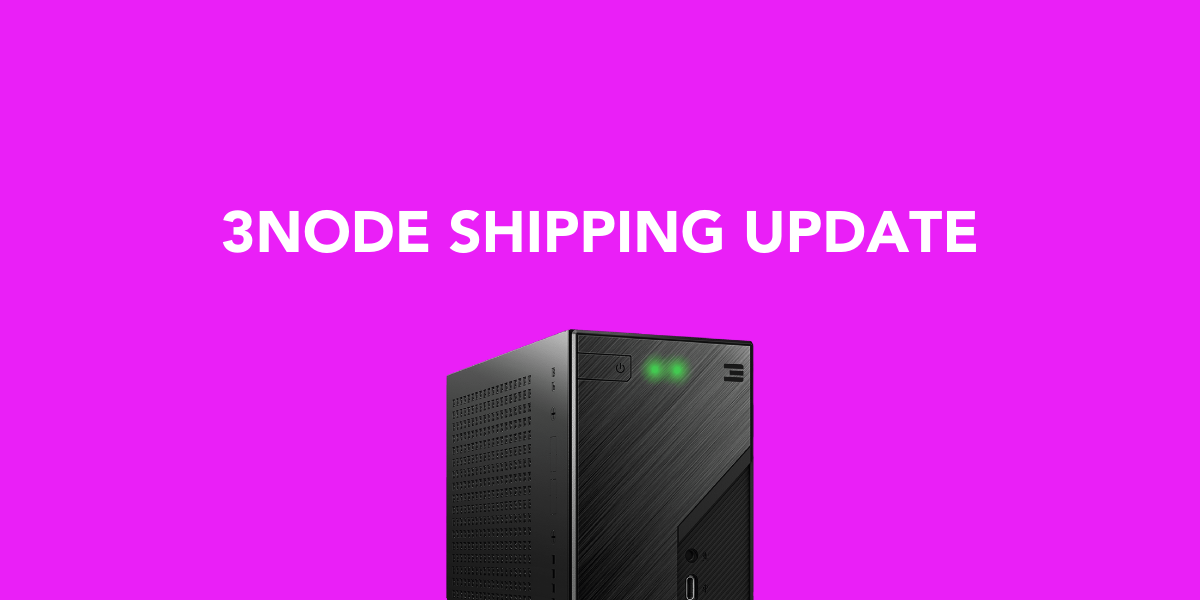
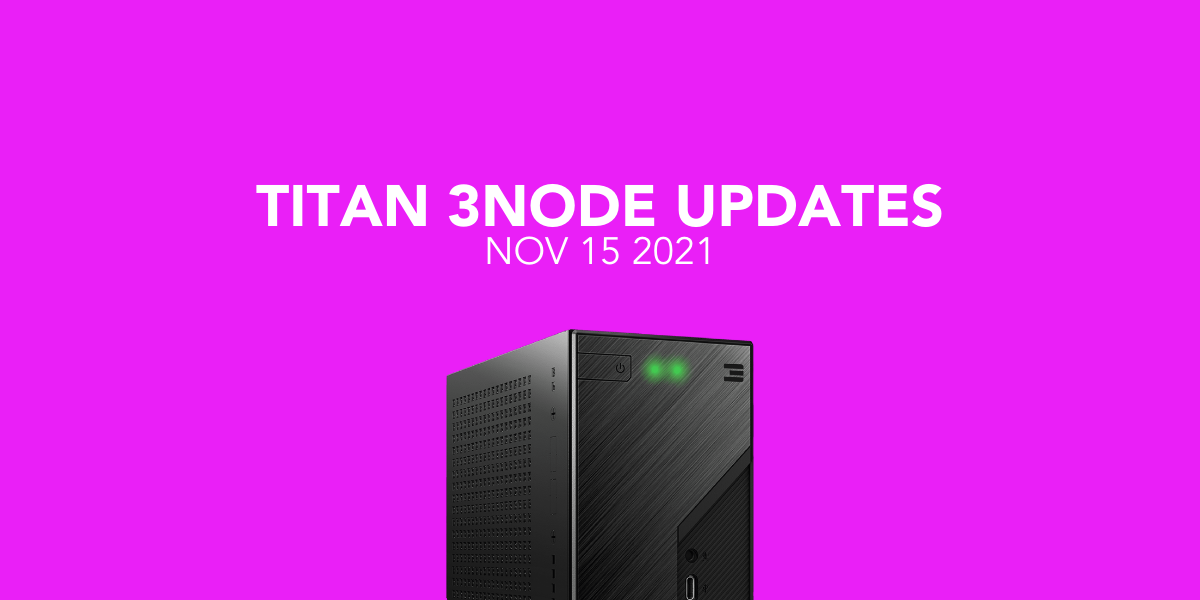
Recent news

Changed region(s): [[0.185, 0.3, 0.8325, 0.45]]

diff --git a/content/news/tf_grid3_reminder/tf_grid3_reminder.md b/content/news/tf_grid3_reminder/tf_grid3_reminder.md
@@ -1,0 +1,31 @@
+---
+id: tf_grid3_reminder
+title: All About ThreeFold Grid 3
+tags: [threefold_grid,technology,update,peer_to_peer,threefold_cloud]
+category: [foundation]
+image: ./tf_grid3_reminder.png
+image_caption: All About ThreeFold Grid 3
+excerpt: As the team is working hard on bringing ThreeFold Grid 3 to mainnet, we wanted to remind you of what's new and what's coming!
+authors: [sam_taggart]
+created: 2021-12-13
+---
+
+✍ As the team is working hard on **bringing ThreeFold Grid 3 to mainnet**, we thought it would be a good time to remind of [What’s New in TF Grid 3.0](https://forum.threefold.io/t/what-is-new-in-tfgrid-3-0/1133)!
+
+<br/>
+
+**More About TF Grid 3:**
+
+<br/>
+
+- 🗞 [Release 3.0.1](https://forum.threefold.io/t/whats-new-in-tf-grid-3-0-1-and-the-path-to-mainnet/1488)
+- 🌀 [The TF Admin Portal](https://forum.threefold.io/t/introducing-the-tf-chain-admin-portal-for-farmers-and-grid-users/1526)
+- 🔍 [Grid 3 Explorer](https://forum.threefold.io/t/the-threefold-grid-3-x-explorer-ui/1536)
+
+<br/>
+
+Thanks to the farmers acrossed 18 countries 🌎 who have connected capacity to TF Grid 3 Testnet and to the testers who have deployed more than 1,800 contracts to date.
+
+<br/>
+
+*For those who are interested in testing, please join [our testing community](https://t.me/threefoldtesting).*

diff --git a/content/news/tf_admin_portal/tf_admin_portal.md b/content/news/tf_admin_portal/tf_admin_portal.md
@@ -1,0 +1,29 @@
+---
+id: tf_admin_portal
+title: Introducing the ThreeFold Admin Portal
+tags: [community,farming,threefold_grid,threefold_cloud,update]
+category: [foundation,cloud]
+image: ./tf_admin_portal.png
+image_caption: The TF Admin Portal
+excerpt: A new and improved user experience for farmers and grid users.
+authors: [sam_taggart]
+created: 2021-11-26
+---
+
+🚨 **Exciting news for farmers & grid users!**
+
+<br/>
+
+One of the requests we’ve had from farmers and grid users was to have a simpler user experience.
+
+<br/>
+
+**The admin portal (aka TF Chain UI) is a response to that feedback, a graphical user interface, and the starting point for anyone to begin working with the TF Grid!**
+
+<br/>
+
+https://forum.threefold.io/t/introducing-the-tf-chain-admin-portal-for-farmers-and-grid-users/1526
+
+<br>
+
+We’ve tested this portal with people of all technical levels, and the response has been quite good! We believe the portal is a huge step forward for anyone using or managing the ThreeFold Grid.

diff --git a/content/news/grid_301/grid_301.md b/content/news/grid_301/grid_301.md
@@ -1,0 +1,25 @@
+---
+id: grid_301
+title: What's New in Grid 3.0.1!
+tags: [threefold_grid,threefold_cloud,technology,update,peer_to_peer,blockchain]
+category: [foundation,cloud]
+image: ./grid_301.png
+image_caption: What's new in Grid 3.0.1
+excerpt: Today we are sharing what’s new in TF Grid 3.0.1, now live on Testnet and Devenet – and the path to Mainnet!
+authors: [sam_taggart]
+created: 2021-11-18
+---
+
+We have been, for some months, in testing mode on our ThreeFold Grid 3.X and today we are sharing **what’s new in TF Grid 3.0.1 – and the path to mainnet!** 🚨
+
+<br/>
+
+Including: improvements suggested for 3.x farming model, a web-based widget to simplify calculations, validator nodes, a DAO, and what we still need to for mainnet!
+
+<br/>
+
+**Find the full update [here](https://forum.threefold.io/t/whats-new-in-tf-grid-3-0-1-and-the-path-to-mainnet/1488).**
+
+<br/>
+
+*And a big thank you to the testers & farmers who have offered your time & feedback in helping us get to where we are today!*

diff --git a/content/news/tf_grid3_explorer/tf_grid3_explorer.md b/content/news/tf_grid3_explorer/tf_grid3_explorer.md
@@ -1,0 +1,29 @@
+---
+id: tf_grid3_explorer
+title: Presenting the new Explorer UI for Grid 3.x
+tags: [farming,technology,threefold_grid,community,update]
+category: [foundation]
+image: ./tf_grid3_explorer.png
+image_caption: Presenting the new Explorer UI
+excerpt: The updated Explorer brings a simple interface and true decentralization to the way compute, storage, and network capacity information is sourced from 3Nodes.
+authors: [sam_taggart]
+created: 2021-11-30
+---
+
+🚨 **Presenting: the new Explorer UI for TF Grid 3.x!**
+
+<br/>
+
+The updated Explorer brings a simple interface and true decentralization to the way compute, storage, and network capacity information is sourced from 3Nodes.
+
+<br/>
+
+https://forum.threefold.io/t/the-threefold-grid-3-x-explorer-ui/1536
+
+<br/>
+
+*Thanks to our farmer community for already connecting more than 100 nodes (across 16 countries) to testnet.*
+
+<br/>
+
+*And to our testing community – more than 1,400 contracts have been deployed since testnet launch!* 🚀

diff --git a/content/news/hcloud_summit/hcloud_summit.md b/content/news/hcloud_summit/hcloud_summit.md
@@ -1,0 +1,21 @@
+---
+id: hcloud_summit
+title: Join us at the virtual Horizon Cloud Summit
+tags: [event,community,threefold_grid,technology,threefold_cloud,peer_to_peer]
+category: [foundation,cloud]
+image: ./hcloud_summit.png
+image_caption: Join us at the Horizon Cloud Summit
+excerpt: ThreeFold will be presenting two sessions at the Horizon Cloud Summit on December 8 and 9.
+authors: [sam_taggart]
+created: 2021-12-02
+---
+
+We’d like to invite you to **join us at the virtual Horizon Cloud Summit next week**, on December 8 and 9!
+
+<br/>
+
+Our Geert Machtelinckx will be presenting & sharing in two different sessions. Find the full details **[here](https://forum.threefold.io/t/join-threefold-horizon-cloud-summit-2021/1539)**.
+
+<br/>
+
+*Horizon Cloud is a European Commission initiative. They recently recognized ThreeFold’s peer-to-peer cloud infrastructure as leading in the fields of edge, federation, and green technology.*

diff --git a/content/news/3node_team_nov22/3node_team_nov22.md b/content/news/3node_team_nov22/3node_team_nov22.md
@@ -1,0 +1,25 @@
+---
+id: 3node_team_nov22
+title: Your November 22 Titan Update
+tags: [farming,update,community]
+category: [foundation]
+image: ./3node_team_nov22.png
+image_caption: Your November 22 Titan Update
+excerpt: This week, we’re covering shipping, compensation for the unexpected 3Node configuration issue, upgrades to our process, expanding support, & more.
+authors: [sam_taggart]
+created: 2021-11-22
+---
+
+**Your Weekly 3Node Team Update!**
+
+<br/>
+
+https://forum.threefold.io/t/november-22nd-3node-team-update-shipping-compensation-upgrading-the-process-more/1509
+
+<br/>
+
+This week, we’re covering shipping, compensation for the unexpected 3Node configuration issue, upgrades to our process, expanding support, & clarifying our communication channels.
+
+<br/>
+
+*Please stay tuned on the [farming chat](https://t.me/threefoldfarming) and we’ll share another update again here next week!*

diff --git a/content/news/3node_team_nov29/3node_team_nov29.md b/content/news/3node_team_nov29/3node_team_nov29.md
@@ -1,0 +1,25 @@
+---
+id: 3node_team_nov29
+title: Your November 29 Titan Update
+tags: [farming,update,community]
+category: [foundation]
+image: ./3node_team_nov29.png
+image_caption: Your November 29 Titan Update
+excerpt: Today, the first batch of Titans begins shipping to North America!
+authors: [sam_taggart]
+created: 2021-11-29
+---
+
+**Your Weekly 3Node Update!**
+
+<br/>
+
+https://forum.threefold.io/t/november-29th-3node-team-update-north-america-shipping-admin-portal-technical-support-more/1533
+
+<br/>
+
+Today, the first batch of Titans begins shipping to North America! 🇨🇦🇺🇸🇲🇽 We’ve got some more updates inside. Take a look!
+
+<br/>
+
+*As always, you can find farming-related conversations in the [farming chat](https://t.me/threefoldfarmers).*

diff --git a/content/news/3node_team_dec8/3node_team_dec8.md b/content/news/3node_team_dec8/3node_team_dec8.md
@@ -1,0 +1,25 @@
+---
+id: 3node_team_dec8
+title: Your December 8 Titan Update
+tags: [farming,update,community]
+category: [foundation]
+image: ./3node_team_dec8.png
+image_caption: Your December 8 Titan Update
+excerpt: We’re in the midst of shipping a large batch of Titans to North America, and we’re expanding our partner network.
+authors: [sam_taggart]
+created: 2021-12-08
+---
+
+**Your Weekly 3Node Update!**
+
+<br/>
+
+https://forum.threefold.io/t/december-8th-3node-team-update-shipping-status-expanding-our-partner-network/1555
+
+<br/>
+
+We’re in the midst of shipping a large batch of Titans to North America, and we’re expanding our partner network. 🌍
+
+<br/>
+
+More info within!

diff --git a/content/news/digithree_site/digithree_site.md b/content/news/digithree_site/digithree_site.md
@@ -1,0 +1,21 @@
+---
+id: digithree_site
+title: DigiThree Labs is live!
+tags: [partner,technology,update,peer_to_peer,news]
+category: [foundation,cloud]
+image: ./digithree_site.png
+image_caption: DigiThree is live
+excerpt: The DigiThree website is now live! Dig in to see what we're bringing to the world together with DigiCorp.
+authors: [sam_taggart]
+created: 2021-11-18
+---
+
+**DigiThree Labs is live!** 🚀
+
+<br/>
+
+DigiThree combines ThreeFold’s peer-to-peer technology and the vast benefits of the DigiByte blockchain to protect and elevate enterprises into the metaverse, our digital future.
+
+<br/>
+
+🌐 https://digithreelabs.com

diff --git a/content/news/mid_nov_titan_update/mid_nov_titan_update.md b/content/news/mid_nov_titan_update/mid_nov_titan_update.md
@@ -1,6 +1,6 @@
 ---
 id: mid_nov_titan_update
-title: Your Mid November Titan v2.1 Update
+title: Your Mid November Titan Update
 tags: [update,farming,community]
 category: [farming,cloud,foundation]
 image: ./mid_nov_titan_update.png
